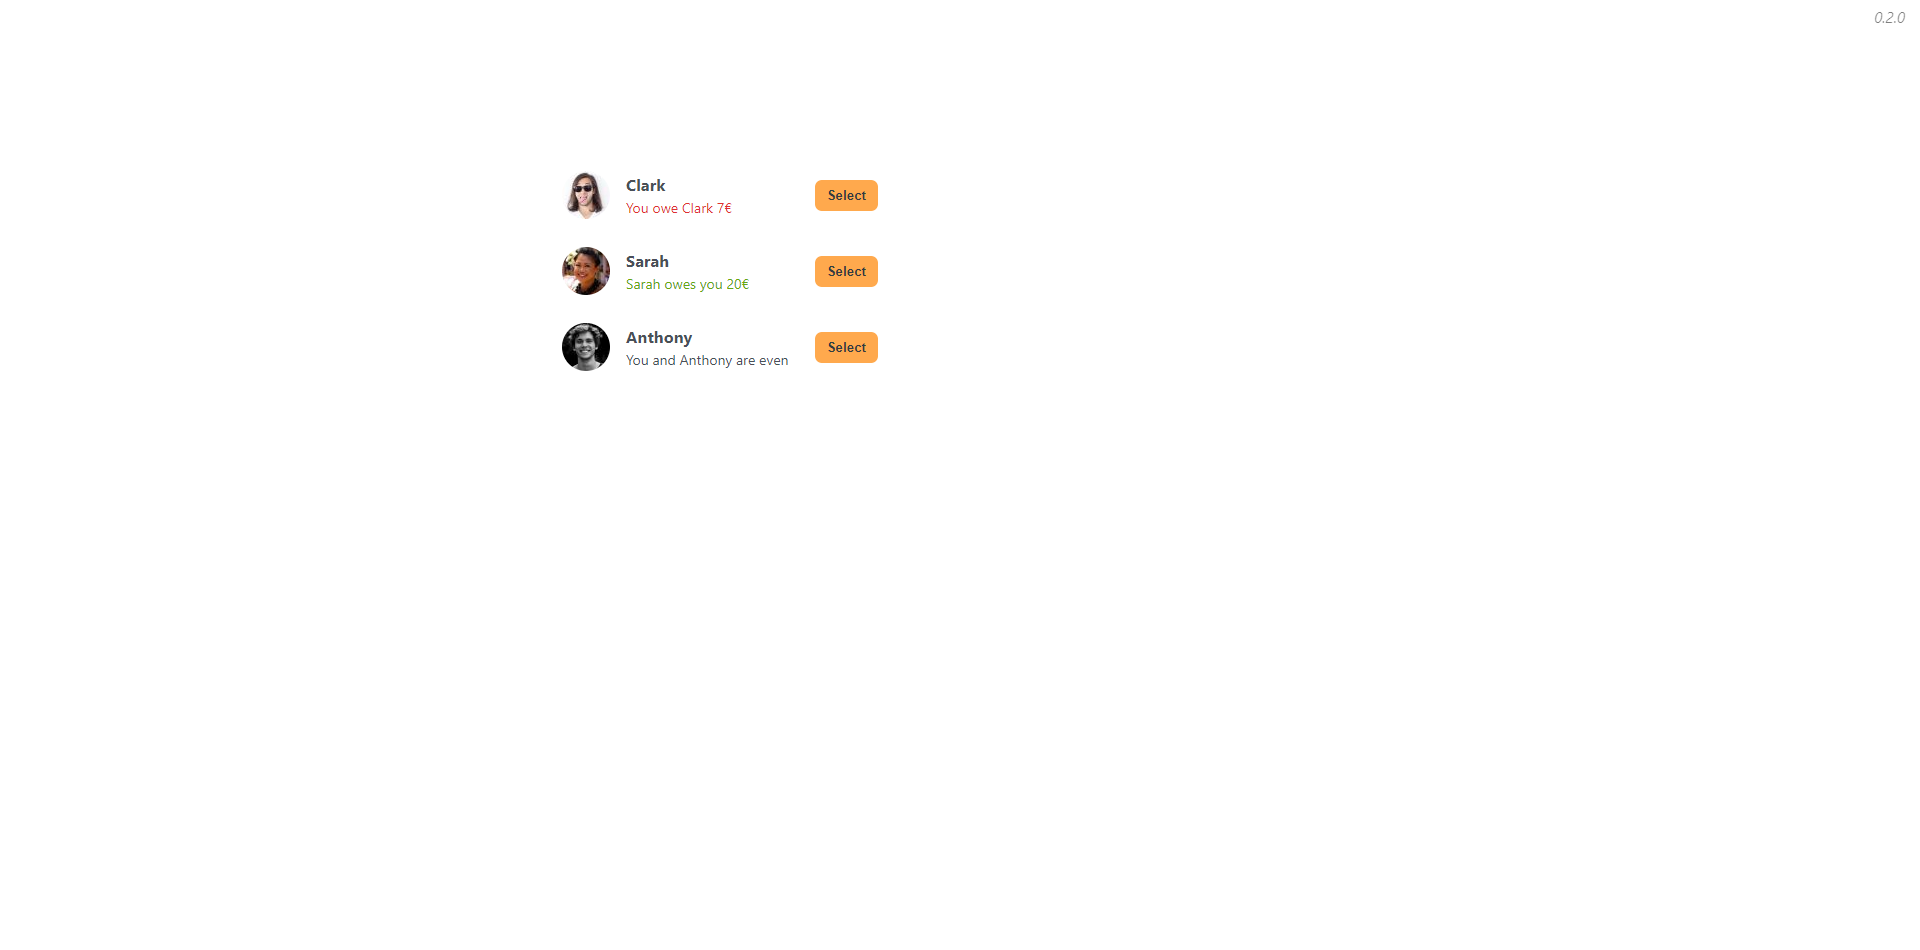
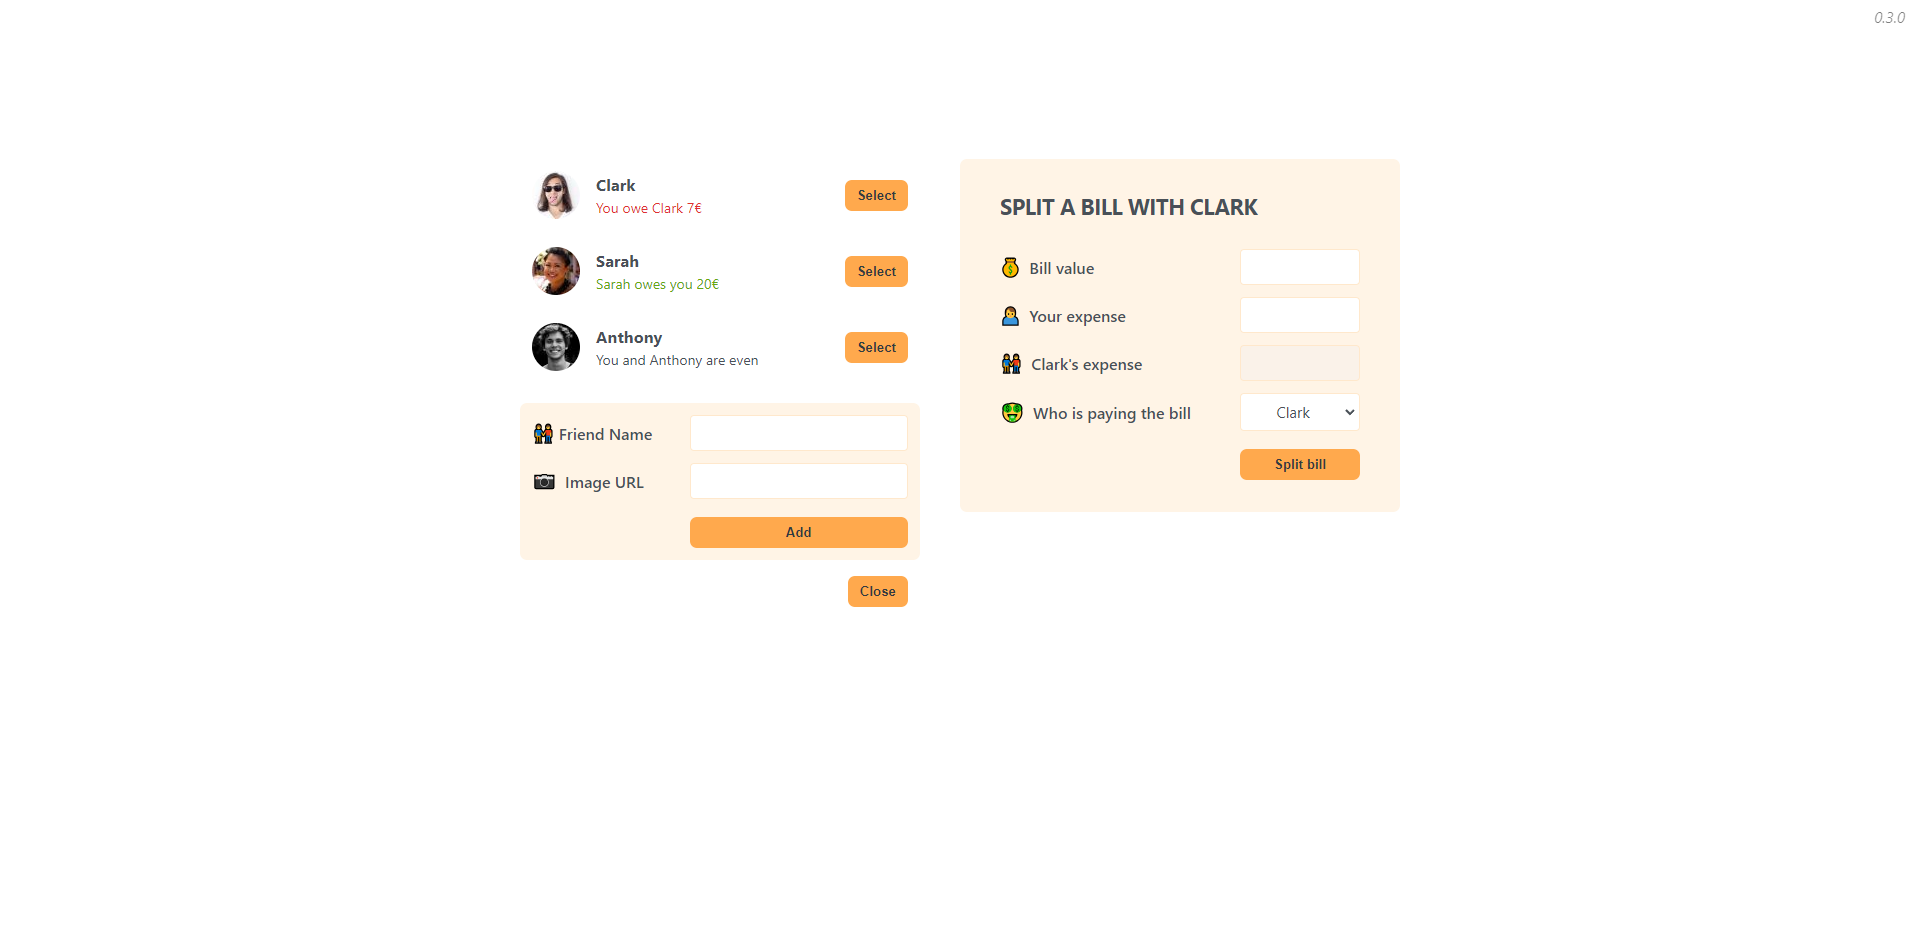
FAIR SHARE 0.3.0
Add Form Add Friend
Add Form Split Bill

Changed region(s): [[0.25, 0.1526, 0.75, 0.6411]]

diff --git a/src/components/App.js b/src/components/App.js
@@ -6,7 +6,10 @@ export default function App() {
     <div className='app'>
       <div className='sidebar'>
         <FriendList />
+        <FormAddFriend />
+        <Button>Close</Button>
       </div>
+      <FormSplitBill />
       <VersionWatermark />
     </div>
   )
@@ -40,7 +43,59 @@ function Friend({ friend }) {
           You and {friend.name} are even
         </p>
       )}
-      <button className="button">Select</button>
+      <Button>Select</Button>
     </li>
+  )
+}
+
+function Button({ children }) {
+  return (
+    <button className="button">{children}</button>
+  )
+}
+
+function FormAddFriend() {
+  return (
+    <form className="form-add-friend">
+      <InputText>👬Friend Name</InputText>
+      <InputText>📷 Image URL</InputText>
+      <Button>Add</Button>
+    </form>
+  )
+}
+
+function InputText({ children, disabled }) {
+  return (
+    <>
+      <label>{children}</label>
+      <input type="text" disabled={disabled} />
+    </>
+  )
+}
+
+function FormSplitBill() {
+  const selectedFriend = "Clark";
+
+  return (
+    <form className="form-split-bill">
+      <h2>Split a bill with {selectedFriend}</h2>
+      <InputText>💰 Bill value</InputText>
+      <InputText>🙍♂ Your expense</InputText>
+      <InputText disabled="disabled">👬 {selectedFriend}'s expense</InputText>
+      <InputSelect selectedFriend={selectedFriend} />
+      <Button>Split bill</Button>
+    </form>
+  )
+}
+
+function InputSelect({ selectedFriend }) {
+  return (
+    <>
+      <label>🤑 Who is paying the bill</label>
+      <select defaultValue="friend">
+        <option value="user">You</option>
+        <option value="friend">{selectedFriend}</option>
+      </select>
+    </>
   )
 }

diff --git a/src/index.js b/src/index.js
@@ -1,7 +1,7 @@
-import React from 'react';
-import ReactDOM from 'react-dom/client';
 import './index.css';
+import React from 'react';
 import App from './components/App';
+import ReactDOM from 'react-dom/client';
 
 const root = ReactDOM.createRoot(document.getElementById('root'));
 root.render(

diff --git a/src/index.css b/src/index.css
@@ -28,7 +28,7 @@ body {
 .app {
   min-height: 66vh;
   display: grid;
-  grid-template-columns: 34rem 44rem;
+  grid-template-columns: 40rem 44rem;
   column-gap: 4rem;
   align-items: start;
 }

diff --git a/README.md b/README.md
@@ -10,7 +10,7 @@
 
 - **STACK :**
 
-  - **Fair Share** : `0.2.0`
+  - **Fair Share** : `0.3.0`
   - **React** : `18.3.1`
   - **React Dom** : `18.3.1`
 
@@ -18,7 +18,7 @@
 
 - **URLS :**
 
-  - **Website : [Fair Share](https://fair-share.netlify.app)**
+  - **Website : [Fair Share](https://dagt-fair-share.netlify.app)**
 
 ---
 
